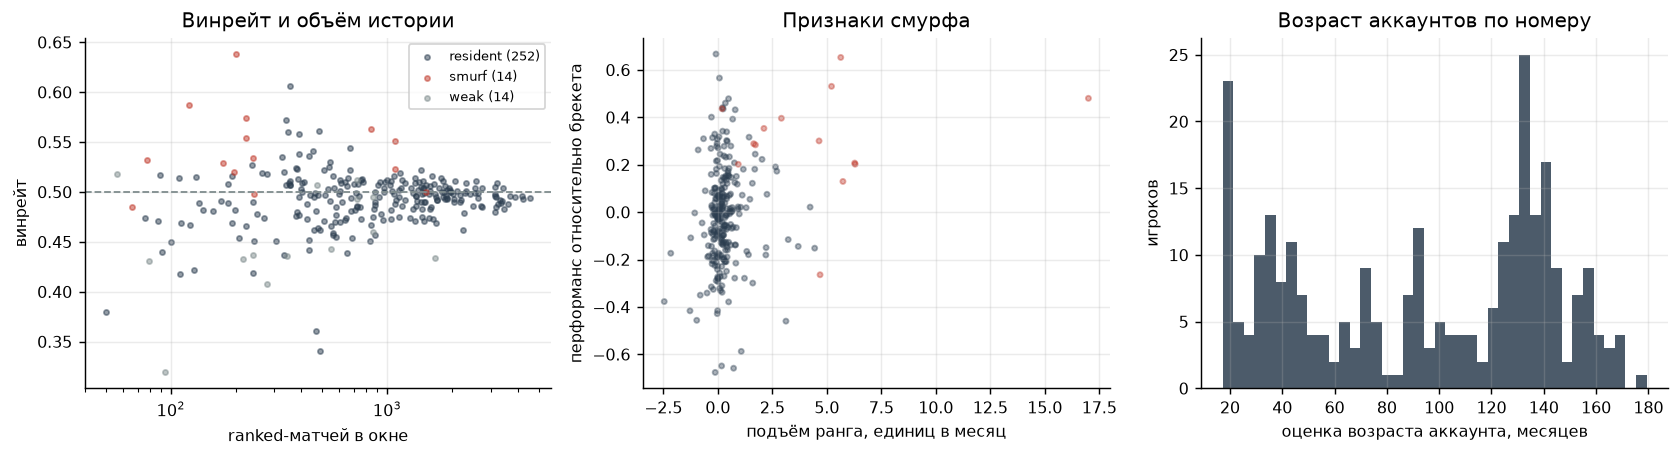
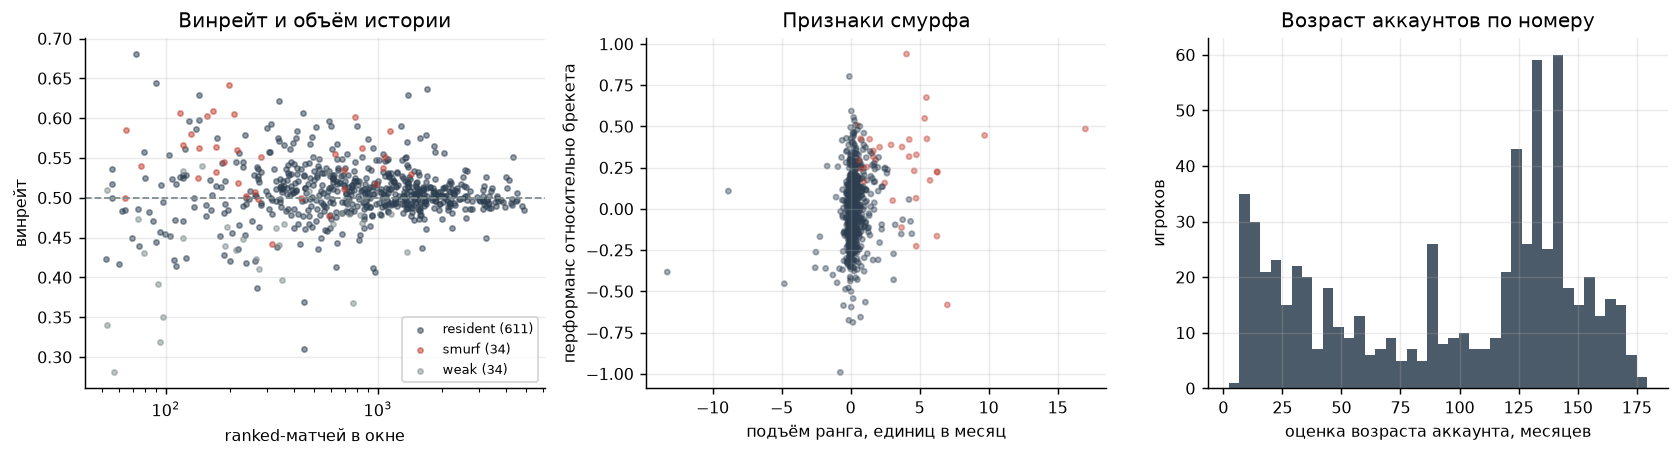
dota-mm-study: исправления сборки отчёта

diff --git a/dota-mm-study/scripts/build_report.py b/dota-mm-study/scripts/build_report.py
@@ -75,6 +75,9 @@ def main() -> None:
     add(_appendix(findings))
 
     text = "\n\n".join(s for s in sections if s)
+    # Сокращение «п.п.» уже заканчивается точкой, поэтому в конце предложения
+    # получается задвоение.
+    text = text.replace("п.п..", "п.п.")
     out = REPORTS_DIR / "report.md"
     out.write_text(text)
     log.info("отчёт записан: %s (%d символов)", out, len(text))
@@ -603,15 +606,20 @@ def _limitations() -> str:
 def _appendix(findings: pd.DataFrame) -> str:
     if findings.empty:
         return ""
-    lines = ["## Приложение: все зафиксированные величины", "", "| Тест | Метрика | Значение | 99% ДИ | n |", "| --- | --- | --- | --- | --- |"]
+    lines = [
+        "## Приложение: все зафиксированные величины",
+        "",
+        "| Тест | Метрика | Значение | 99% ДИ | n | Примечание |",
+        "| --- | --- | --- | --- | --- | --- |",
+    ]
     for row in findings.itertuples(index=False):
-        ci = (
-            f"{_fmt(row.lo, 4)} … {_fmt(row.hi, 4)}"
-            if row.lo is not None and row.hi is not None
-            else "—"
+        has_ci = pd.notna(row.lo) and pd.notna(row.hi)
+        ci = f"{_fmt(row.lo, 4)} … {_fmt(row.hi, 4)}" if has_ci else "—"
+        n = f"{int(row.n):,}" if pd.notna(row.n) else "—"
+        note = row.note if isinstance(row.note, str) else ""
+        lines.append(
+            f"| {row.test} | {row.metric} | {_fmt(row.value, 5)} | {ci} | {n} | {note} |"
         )
-        n = f"{int(row.n):,}" if row.n is not None else "—"
-        lines.append(f"| {row.test} | {row.metric} | {_fmt(row.value, 5)} | {ci} | {n} |")
     return "\n".join(lines)
 
 

diff --git a/dota-mm-study/reports/report.md b/dota-mm-study/reports/report.md
@@ -1,0 +1,242 @@
+# Существует ли «подкрутка» в матчмейкинге Dota 2
+
+Проверка легенды о том, что система искусственно подтягивает винрейт игрока к 50%. Исследование построено на открытых данных OpenDota; гипотезы, тесты и пороги зафиксированы в [PREREGISTRATION.md](../PREREGISTRATION.md) до сбора данных.
+
+## Короткий ответ
+
+Жёсткая подкрутка, то есть механизм, принудительно сводящий винрейт к 50%, **отвергается**. Разброс карьерных винрейтов оказался в 3.40 раза шире биномиального (99% ДИ 2.64-4.37), тогда как принудительное сведение к 50% требует отношения меньше единицы.
+
+Эффект серии на исход следующего матча оказался **положительный**: +0.25 п.п. за каждый шаг серии (стандартная ошибка 0.00031). Подкрутка предсказывает отрицательный знак — после победной серии выигрывать должно становиться труднее. Наблюдается обратное.
+
+Честная рейтинговая система, откалиброванная по наблюдаемому разбросу винрейтов, предсказывает наклон +0.10 п.п. Наблюдаемое значение того же знака и того же порядка.
+
+Самый отрицательный наклон, достижимый честной системой при разумных параметрах, составляет -0.08 п.п. Наблюдаемое значение лежит далеко в противоположной стороне, что даёт верхнюю границу на возможную подкрутку.
+
+Тест на разделение механизмов показывает, что зависимость исхода от серии идёт через **собственную игру человека**, а не через состав команды: собственный перформанс меняется на +0.0028 стандартного отклонения за шаг серии.
+
+## Данные
+
+| Показатель | Значение |
+| --- | --- |
+| Публичных матчей в позитивных контролях | 5,150,534 |
+| Игроков в выборке | 4,323 |
+| Историй выгружено | 750 |
+| Матчей игроков всего | 1,717,227 |
+| Матчей в основной выборке | 750,702 |
+| Игроков в основной выборке | 740 |
+| Матчей с полными составами | 1,146 |
+
+Рамка выборки — случайные публичные ranked-матчи со стратификацией по брекетам, разобранные на участников. Такая выборка взвешена по активности: чем чаще человек играет, тем вероятнее он в неё попадёт. Именно она отвечает на вопрос «как устроен типичный матч».
+
+Основная выборка ограничена ranked-матчами 2023 года и позже продолжительностью не менее десяти минут, доигранными до конца. Ограничение по дате вынужденное: поле `average_rank`, единственный доступный прокси рейтинга, заполнено почти у всех современных матчей и почти ни у одного старого.
+
+## Позитивные контроли: работает ли конвейер
+
+Прежде чем делать выводы из отсутствия эффекта, надо убедиться, что конвейер способен обнаружить эффект известного размера. Иначе нулевой результат мог бы объясняться поломкой обработки.
+
+На 5,150,534 публичных ranked-матчах воспроизводится известный перевес стороны Radiant: **0.5307** (99% ДИ 0.5301-0.5312). Он устойчив во всех брекетах, то есть не является артефактом выборки.
+
+| Брекет | Матчей | Винрейт Radiant |
+| --- | --- | --- |
+| Herald | 144,254 | 0.5291 |
+| Guardian | 507,757 | 0.5295 |
+| Crusader | 840,934 | 0.5305 |
+| Archon | 1,118,853 | 0.5298 |
+| Legend | 1,088,503 | 0.5322 |
+| Ancient | 715,128 | 0.5304 |
+| Divine | 574,618 | 0.5311 |
+
+Винрейты героев различаются на 13.1 процентных пункта — конвейер видит и этот заведомо существующий эффект.
+
+![Позитивные контроли](figures/controls.png)
+
+## Нулевая модель: чего ждать от честной системы
+
+Это ключевой момент всего исследования. Винрейт около 50% — это **неподвижная точка любой рейтинговой системы**, а не доказательство вмешательства: подбирая равных соперников, система автоматически приводит стабильного игрока к равному счёту. Более того, в честной системе возникает и зависимость исхода от предыдущей серии, потому что после победы рейтинг вырос и следующий соперник сильнее.
+
+Поэтому наблюдения сравниваются не с нулём, а с симулятором честного матчмейкинга: рейтинг по Elo, подбор строго по рейтингу, исход только от силы команд, никакой подкрутки по построению.
+
+Оказалось, что предсказания честной системы сильно зависят от того, насколько подвижен навык игроков: разброс винрейтов пробегает диапазон от 0.99 до 9.78, а наклон эффекта серии — от -0.08 п.п. до +0.86 п.п. Точечное сравнение с одной симуляцией было бы поэтому бессмысленным.
+
+Решение: единственный свободный параметр модели, нестационарность навыка, подбирается так, чтобы совпал наблюдаемый разброс винрейтов. После этого наклон эффекта серии перестаёт быть подгоняемой величиной и становится **предсказанием** модели, которое можно честно сравнить с наблюдением.
+
+Откалиброванная модель предсказывает наклон +0.10 п.п.
+
+![Нулевая модель](figures/null_model.png)
+
+Честное замечание о пределах модели: наблюдаемая подвижность ранга (0.361 от разброса рангов в популяции) выше той, что воспроизводит откалиброванная модель. Расхождение ожидаемо — в Dota 2 есть сезонные пересчёты рейтинга и шум измерения `average_rank`, которых в модели нет.
+
+## Тест A: разброс карьерных винрейтов
+
+Логика теста. Если бы система жёстко тянула каждого к 50%, наблюдаемый разброс винрейтов оказался бы **уже** биномиального шума: система гасила бы отклонения, которые при честной случайности обязаны накапливаться. Недодисперсия при честной игре практически недостижима, поэтому это самый сильный фальсифицирующий признак во всём исследовании.
+
+| Показатель | Значение |
+| --- | --- |
+| Игроков в когорте | 617 |
+| Матчей | 739,709 |
+| Средний винрейт | 0.5053 |
+| Наблюдаемый разброс | 0.0334 |
+| Разброс при чистой случайности | 0.0188 |
+| Коэффициент дисперсии phi | 3.401 (99% ДИ 2.642-4.368) |
+| Разброс истинных винрейтов | 0.0276 |
+
+**Вывод: сверхдисперсия: жёсткая подкрутка отвергается.**
+
+Содержательно это означает, что различия между игроками реальны: после вычитания случайного шума стандартное отклонение истинного винрейта составляет 0.0276, то есть около 2.8 процентных пунктов. Система эти различия не стирает.
+
+Проверка на смурфов: после их исключения phi составляет 3.319 против 3.401 на полной выборке. Избыточный разброс не сводится к смурфам.
+
+![Тесты A и B](figures/tests_ab.png)
+
+## Тест B: влияет ли серия на следующий матч
+
+| Серия перед матчем | Матчей | Доля побед | 99% ДИ |
+| --- | --- | --- | --- |
+| -5 | 26,679 | 0.4917 | 0.4838-0.4995 |
+| -4 | 24,819 | 0.4943 | 0.4861-0.5024 |
+| -3 | 48,263 | 0.4996 | 0.4938-0.5055 |
+| -2 | 94,206 | 0.4989 | 0.4947-0.5031 |
+| -1 | 185,252 | 0.5035 | 0.5005-0.5064 |
+| +1 | 185,881 | 0.5050 | 0.5020-0.5080 |
+| +2 | 91,825 | 0.5130 | 0.5088-0.5173 |
+| +3 | 46,081 | 0.5079 | 0.5019-0.5139 |
+| +4 | 22,936 | 0.5254 | 0.5169-0.5339 |
+| +5 | 24,671 | 0.5317 | 0.5235-0.5399 |
+
+Сырые доли смешивают два разных явления: сильные игроки и выигрывают чаще, и чаще имеют длинные победные серии. Поэтому основная оценка делается с фиксированными эффектами игрока, то есть сравнивает матчи одного и того же человека между собой, а стандартные ошибки кластеризуются по игроку.
+
+| Оценка | Наклон за шаг серии |
+| --- | --- |
+| Наблюдение | +0.25 п.п. (SE 0.00031) |
+| Наблюдение с контролем на движение ранга, пати и позицию в сессии | +0.27 п.п. |
+| Предсказание честной модели | +0.10 п.п. |
+| Разница | +0.14 п.п. (p=0.0000) |
+
+**Знак противоположен предсказанию подкрутки.** Гипотеза о наказании за победную серию требует отрицательного наклона: после побед выигрывать должно становиться труднее. В данных наблюдается обратное — победы слабо, но устойчиво предсказывают следующую победу.
+
+Проверка гипотезы о таргетированном вмешательстве: наклон после побед составляет +0.43 п.п., после поражений +0.10 п.п. Разница +0.33 п.п. при p=0.0004.
+
+Непараметрическая проверка структуры последовательности (тест Уолда-Вольфовица) по 668 игрокам даёт средний z = -0.326: серии длиннее, чем при случайной последовательности. Подкрутка предсказывала бы противоположный знак, поскольку сглаживание серий — это и есть её наблюдаемое проявление.
+
+## Тест C: перекос состава команды
+
+Самый прямой из возможных тестов. Если система «наказывает» за победную серию, у неё есть ровно один рычаг — состав матча. Поэтому измеряется разница средней силы четырёх союзников и пяти соперников как функция серии. При честном подборе это математический ноль при любой серии.
+
+Наблюдений: 1,012 по 599 игрокам. Средний перекос +0.0921 (SE 0.1257).
+
+| Серия | Наблюдений | Перекос союзники минус соперники |
+| --- | --- | --- |
+| -3 | 199 | -0.132 ± 0.285 |
+| -2 | 174 | -0.126 ± 0.356 |
+| -1 | 145 | +0.353 ± 0.308 |
+| +0 | 1 | -3.989 ± нет данных |
+| +1 | 159 | +0.426 ± 0.282 |
+| +2 | 169 | -0.129 ± 0.308 |
+| +3 | 165 | +0.292 ± 0.297 |
+
+Наклон перекоса по серии: +0.04440 (SE 0.08317). Подкрутка требует значимо отрицательного значения.
+
+Ограничение теста: в среднем 6% участников матча скрывают профиль, и их сила ненаблюдаема.
+
+![Тесты C и D](figures/tests_cd.png)
+
+## Тест D: тильт или подкрутка
+
+Два совершенно разных механизма дают одинаковую зависимость исхода от серии, и различить их — самая содержательная часть работы:
+
+* тильт и усталость меняют игру **самого человека**;
+* подкрутка меняет **состав его команды**.
+
+Разделить их можно, потому что первый механизм виден в собственном перформансе игрока, а второй — в силе союзников и соперников.
+
+| Канал | Изменение за шаг серии | 99% ДИ | Наблюдений |
+| --- | --- | --- | --- |
+| собственный перформанс игрока | +0.00282 | +0.00132 … +0.00433 | 729,635 |
+| сила союзников | +0.13025 | -0.18153 … +0.44202 | 530 |
+| сила соперников | +0.08315 | -0.18923 … +0.35553 | 530 |
+| перекос состава | +0.04710 | -0.14298 … +0.23718 | 530 |
+
+Собственный перформанс игрока растёт вместе с серией: +0.00282 стандартного отклонения за шаг. Это означает, что зависимость исхода от серии в значительной мере порождается самим человеком, а не подбором соперников.
+
+## Кто населяет рейтинг: смурфы, слабые игроки и постоянные жители
+
+Смурфы — главный конфаундер исследования. Они дают настоящие 60-70% побед, раздувают хвосты распределения винрейтов и создают у соседей по матчу то самое ощущение несбалансированных команд, которое и породило легенду о подкрутке.
+
+| Когорта | Игроков | Винрейт | Подъём ранга в месяц | Перформанс |
+| --- | --- | --- | --- | --- |
+| житель рейтинга | 612 | 0.5068 | +0.32 | +0.00 |
+| смурф | 34 | 0.5473 | +4.10 | +1.42 |
+| слабый игрок | 34 | 0.4468 | -0.75 | -1.47 |
+
+Признаки смурфа: быстрый подъём по брекетам, перформанс выше уровня своего брекета с самых первых матчей, молодой аккаунт. Возраст аккаунта оценивается по двум независимым источникам — полной истории матчей до окна исследования и калибровочной кривой, связывающей номер аккаунта с датой регистрации, поскольку Steam выдаёт номера почти монотонно по времени.
+
+Проверка на заведомых случаях (молодые аккаунты, добравшиеся до Divine, против аккаунтов с многолетней стабильной историей) даёт AUC 0.815. AUC разделения заведомых смурфов и жителей рейтинга; без возрастной компоненты 0.784.
+
+Это проверка согласованности, а не независимая валидация: настоящей разметки смурфов не существует.
+
+![Когорты](figures/cohorts.png)
+
+## Ответ на исходный вопрос
+
+**Свидетельств подкрутки не обнаружено, и это утверждение количественное.**
+
+1. Жёсткая подкрутка отвергается: разброс винрейтов в 3.40 раза шире случайного, тогда как принуждение к 50% требует значения меньше единицы. Устойчивые различия между игроками существуют и системой не стираются.
+
+2. Направление эффекта серии противоположно предсказанию подкрутки: наблюдается +0.25 п.п. за шаг, то есть победы слегка предсказывают победы, а не наоборот.
+
+3. Наблюдаемая зависимость исхода от серии по знаку и порядку совпадает с тем, что даёт заведомо честная система (+0.10 п.п.).
+
+4. Механизм зависимости от серии удалось локализовать: он проходит через собственную игру человека, а не через состав команды.
+
+Что при этом **правда** в народном наблюдении: винрейт действительно стремится к 50%. Но это следствие того, что система подбирает равных соперников, а не того, что она подкручивает результат. Разница между этими объяснениями не философская: они дают разные проверяемые предсказания, и данные согласуются со вторым.
+
+## Ограничения
+
+1. **Селекция по публичности профиля.** История видна только у игроков, открывших статистику. При выгрузке около 60% встреченных аккаунтов вернули пустую историю, и они могут отличаться от вошедших в выборку.
+2. **Селекция выживших.** Игроки с длинной историей — это те, кто не бросил игру, а бросают чаще проигрывающие.
+3. **Нет прямого доступа к MMR.** Valve закрыла его в API, поэтому движение рейтинга измеряется через `average_rank` матча.
+4. **Тест C ограничен** объёмом выгруженных составов и приватностью: сила скрытых участников ненаблюдаема.
+5. **Наблюдательные данные.** Рандомизации нет, поэтому результат — это ограничение сверху на размер возможного эффекта, а не доказательство отсутствия механизма.
+6. **Нулевая модель — семейство, а не точка.** Её предсказания зависят от предполагаемой нестационарности навыка, поэтому сравнение проводится и с откалиброванной точкой, и с диапазоном достижимого.
+
+## Приложение: все зафиксированные величины
+
+| Тест | Метрика | Значение | 99% ДИ | n | Примечание |
+| --- | --- | --- | --- | --- | --- |
+| A_dispersion | phi_real | 3.40086 | 2.6423 … 4.3676 | 617 | сверхдисперсия: жёсткая подкрутка отвергается |
+| A_dispersion | phi_sim | 0.71502 | 0.6783 … 0.7513 | 6,000 | нулевая модель |
+| A_dispersion | true_winrate_sd | 0.02764 | — | 617 | разброс истинных винрейтов после снятия биномиального шума |
+| B_streaks | asymmetry | 0.00326 | — | 750,702 | наклон после побед минус после поражений, p=0.0004 |
+| B_streaks | runs_mean_z | -0.32587 | — | 668 | отрицательный знак означает более длинные серии, чем при случайности |
+| B_streaks | slope_diff | 0.00144 | — | 750,702 |  |
+| B_streaks | slope_diff_p | 0.00001 | — | 750,702 | реальность против откалиброванной честной модели |
+| B_streaks | slope_null_model | 0.00104 | — | 750,702 |  |
+| B_streaks | slope_real | 0.00247 | — | 750,702 |  |
+| B_streaks | slope_real_controlled | 0.00265 | — | 750,702 |  |
+| B_streaks | slope_sim | -0.00070 | — | 340,253 |  |
+| C_roster | channel_in_winrate | 0.00061 | -0.0024 … 0.0037 | 1,012 | вклад подбора состава в эффект серии, в вероятности победы |
+| C_roster | delta_slope | 0.04440 | -0.1698 … 0.2586 | 1,012 | перекос состава как функция серии; ноль — честный подбор |
+| C_roster | delta_slope_rank_only | 0.10833 | -0.1791 … 0.3958 | 1,012 | проверка на однородной мере силы |
+| C_roster | mean_delta | 0.09205 | -0.2317 … 0.4158 | 1,012 |  |
+| D_cohorts | smurf_auc | 0.81484 | — | 323 | AUC разделения заведомых смурфов и жителей рейтинга; без возрастной компоненты 0.784 |
+| D_cohorts | smurf_share | 0.05007 | — | 679 |  |
+| D_cohorts | weak_share | 0.05007 | — | 679 |  |
+| D_decomposition | ally_skill | 0.13025 | -0.1815 … 0.4420 | 530 | сила союзников |
+| D_decomposition | delta | 0.04710 | -0.1430 … 0.2372 | 530 | перекос состава |
+| D_decomposition | enemy_skill | 0.08315 | -0.1892 … 0.3555 | 530 | сила соперников |
+| D_decomposition | own_performance | 0.00282 | 0.0013 … 0.0043 | 729,635 | собственный перформанс |
+| E_controls | hero_winrate_spread | 0.13092 | — | 19,680,790 | Nature's Prophet 0.417 .. Wraith King 0.548 |
+| E_controls | radiant_winrate | 0.53067 | 0.5301 … 0.5312 | 5,150,534 | публичные ranked-матчи за 10 суток |
+| E_controls | radiant_winrate_Ancient | 0.53042 | 0.5289 … 0.5319 | 715,128 |  |
+| E_controls | radiant_winrate_Archon | 0.52978 | 0.5286 … 0.5310 | 1,118,853 |  |
+| E_controls | radiant_winrate_Crusader | 0.53053 | 0.5291 … 0.5319 | 840,934 |  |
+| E_controls | radiant_winrate_Divine | 0.53112 | 0.5294 … 0.5328 | 574,618 |  |
+| E_controls | radiant_winrate_Guardian | 0.52954 | 0.5277 … 0.5313 | 507,757 |  |
+| E_controls | radiant_winrate_Herald | 0.52911 | 0.5257 … 0.5325 | 144,254 |  |
+| E_controls | radiant_winrate_Legend | 0.53221 | 0.5310 … 0.5334 | 1,088,503 |  |
+| E_controls | radiant_winrate_duration_long | 0.49560 | 0.4946 … 0.4966 | 1,687,390 |  |
+| E_controls | radiant_winrate_duration_medium | 0.53605 | 0.5353 … 0.5368 | 2,996,519 |  |
+| E_controls | radiant_winrate_duration_short | 0.62292 | 0.6211 … 0.6247 | 466,625 |  |
+| null_model | fair_phi_min | 0.99251 | — | — | минимум разброса винрейтов, достижимый честной системой |
+| null_model | fair_slope_min | -0.00083 | — | — | самый отрицательный наклон серии, достижимый честной системой |
+| null_model | fitted_slope | 0.00104 | 0.0008 … 0.0013 | — | предсказание честной модели, откалиброванной на phi=3.45 |
